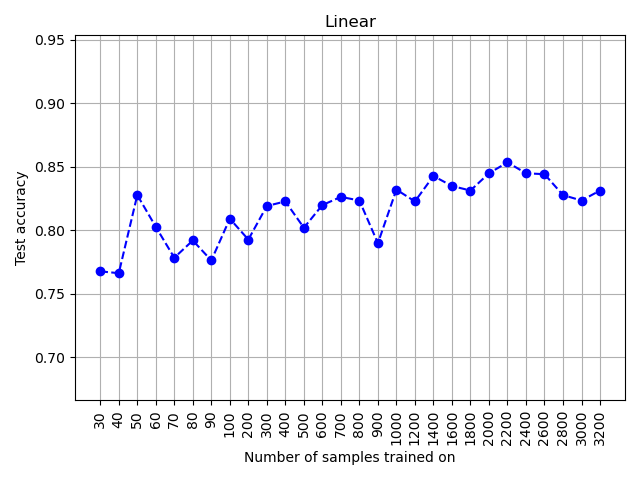
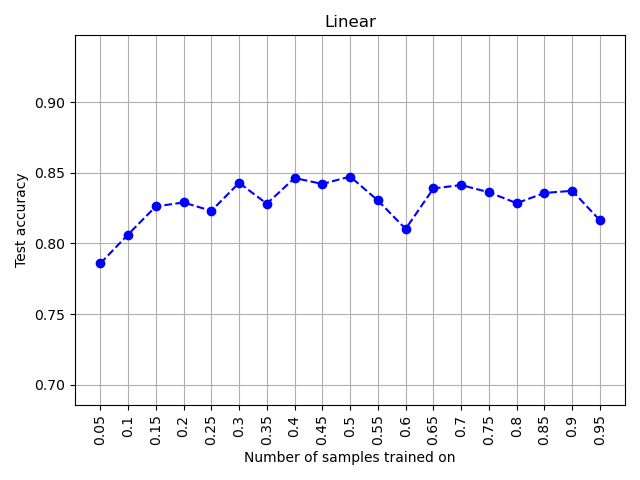
add acc plots for classfiers in readme

diff --git a/transfer_learning.py b/transfer_learning.py
@@ -36,7 +36,7 @@ if __name__ == "__main__":
     
     # Load saved embeddings of the data with unseen classes and split
     df = pd.read_pickle("embeddings_unseen.pkl")
-    train_embeddings, test_embeddings = train_test_split(df, test_size=0.3, shuffle=True, random_state=0)
+    #train_embeddings, test_embeddings = train_test_split(df, test_size=0.3, shuffle=True, random_state=0)
 
     svm_classifier = make_pipeline(StandardScaler(), SVC(gamma="auto"))
     linear_classifier = make_pipeline(StandardScaler(), SGDClassifier(max_iter=1000, tol=1e-3))
@@ -48,11 +48,12 @@ if __name__ == "__main__":
     linear_accuracies = []
     knn_accuracies = []
 
-    sample_range = chain(range(30, 100, 10), range(100, 1000, 100), range(1000, len(train_embeddings), 200))
-    for n in tqdm(list(sample_range)):
+    #sample_range = chain(range(30, 100, 10), range(100, 1000, 100), range(1000, len(train_embeddings), 200))
+    for ratio in tqdm([x/20 for x in range(1,20)]):
         # Fit models
-        X_train = train_embeddings.iloc[:n, 2:]
-        y_train = train_embeddings.loc[:, "label_idx"].iloc[:n]
+        train_embeddings, test_embeddings = train_test_split(df, test_size=1-ratio, shuffle=True, random_state=0)
+        X_train = train_embeddings.iloc[:, 2:]
+        y_train = train_embeddings.loc[:, "label_idx"]
         svm_classifier.fit(X_train, y_train)
         linear_classifier.fit(X_train, y_train)
         knn_classifier.fit(X_train, y_train)
@@ -72,7 +73,7 @@ if __name__ == "__main__":
         svc_accuracies.append(svc_accuracy)
         linear_accuracies.append(linear_accuracy)
         knn_accuracies.append(knn_accuracy)
-        n_samples.append(n)
+        n_samples.append(ratio)
 
     save_accuracy_plot(svc_accuracies, n_samples, "SVC")
     save_accuracy_plot(linear_accuracies, n_samples, "Linear")

diff --git a/README.md b/README.md
@@ -2,6 +2,7 @@
 **Odin Hoff Gardå**
 
 ## Quick Start
+To generate everything from scratch, run the following python files in the order they are listed.
 
 1. `train.py`
 	- Train classifier.
@@ -12,7 +13,7 @@
 	- Extracts activations in the second to last layer (embeddings).
 	- Does this for the test data, train data and the dataset with unseen classes.
 	- Saves embeddings to pickled dataframes.
-4. `compute_average_distances`
+4. `compute_average_distances.py`
 	- Computes average (Euclidean and angular) distances between classes.
 	- Does this for classes the classifier is trained on and the dataset with unseen classes.
 	- Prints distance matrices and also saves them as images.
